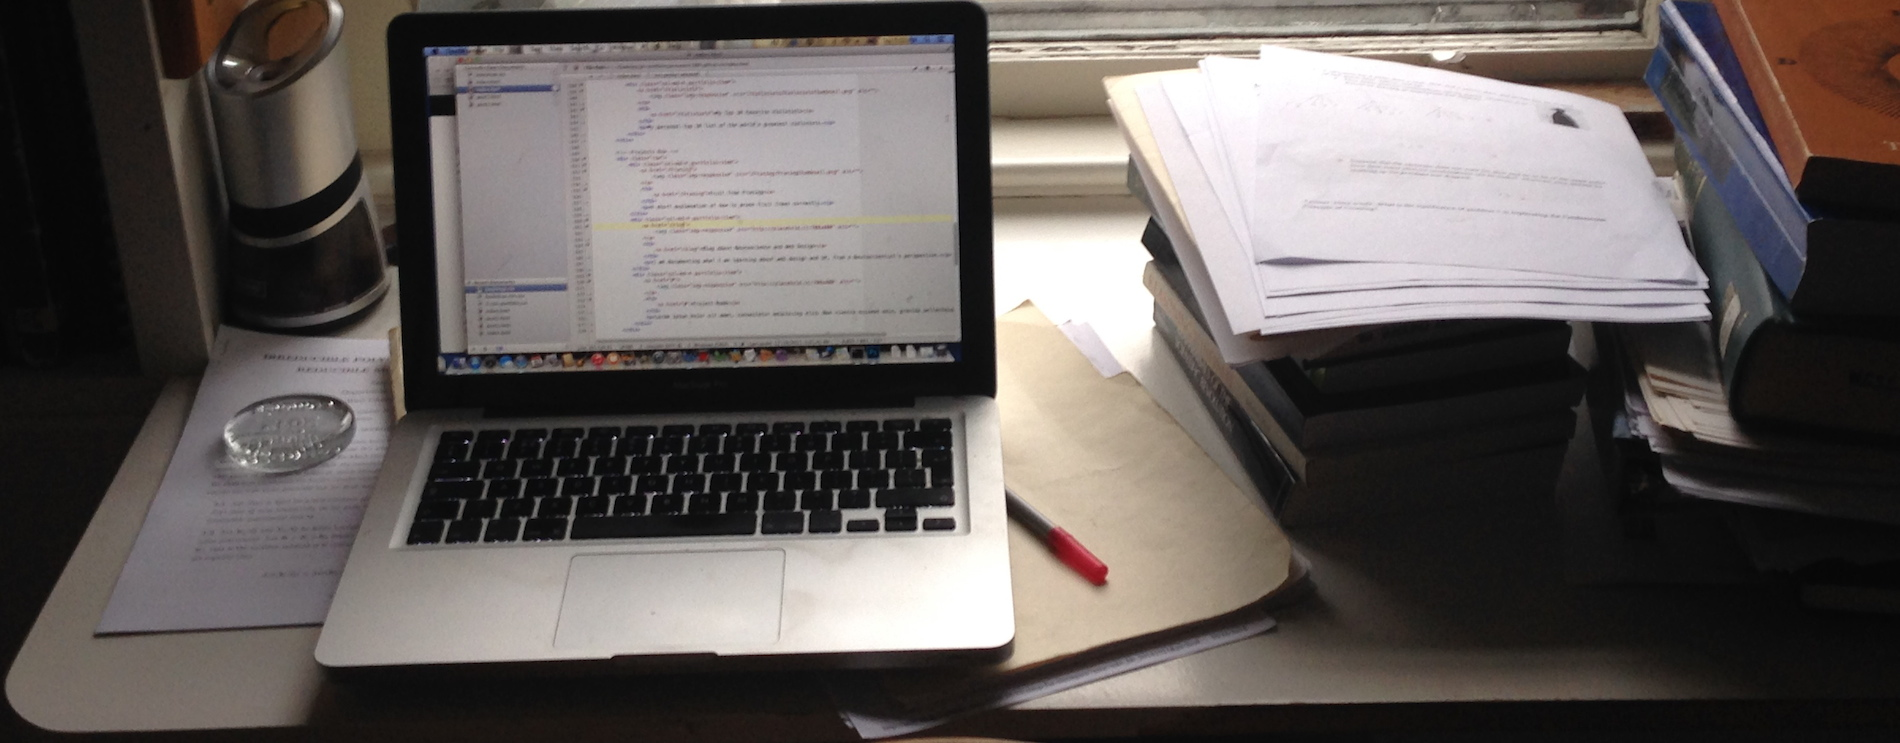
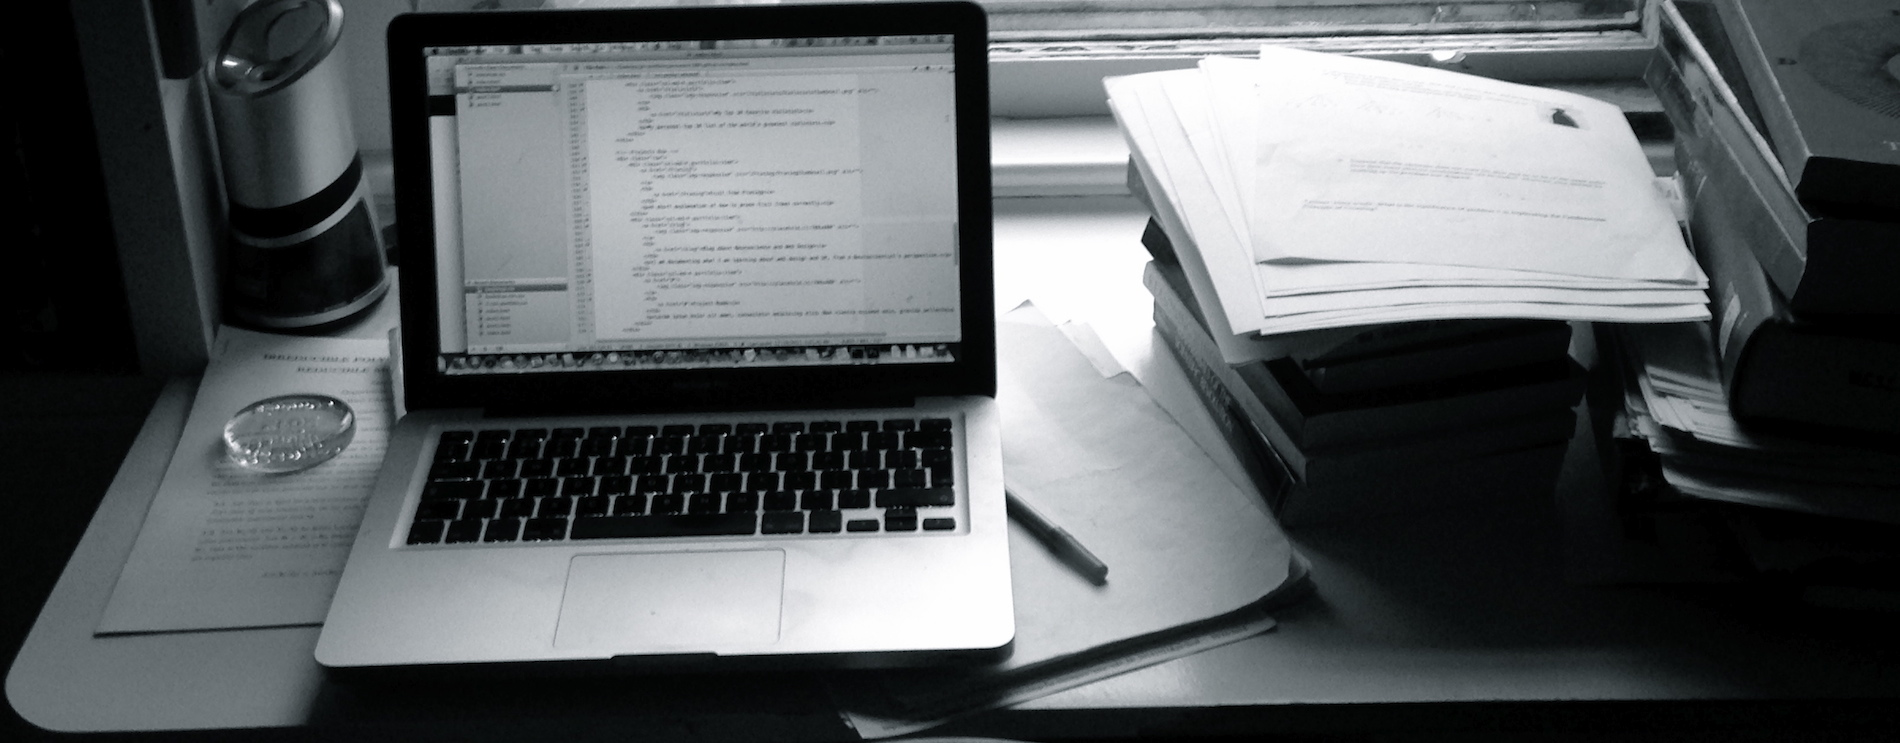
changed font color of h1 back to white and changed picture to black and white

diff --git a/blog/index.html b/blog/index.html
@@ -91,7 +91,7 @@ limitations under the License.-->
             <div class="row">
                 <div class="col-lg-8 col-lg-offset-2 col-md-10 col-md-offset-1">
                     <div class="site-heading">
-                        <h1><span style="color:black">Jennifer on UX</span></h1>
+                        <h1>Jennifer on UX</h1>
                         <hr class="small">
                         <span class="subheading">In Which I Explore What I'm Learning in Web Design and UX, from a Neuroscientist's Perspective</span>
                     </div>
